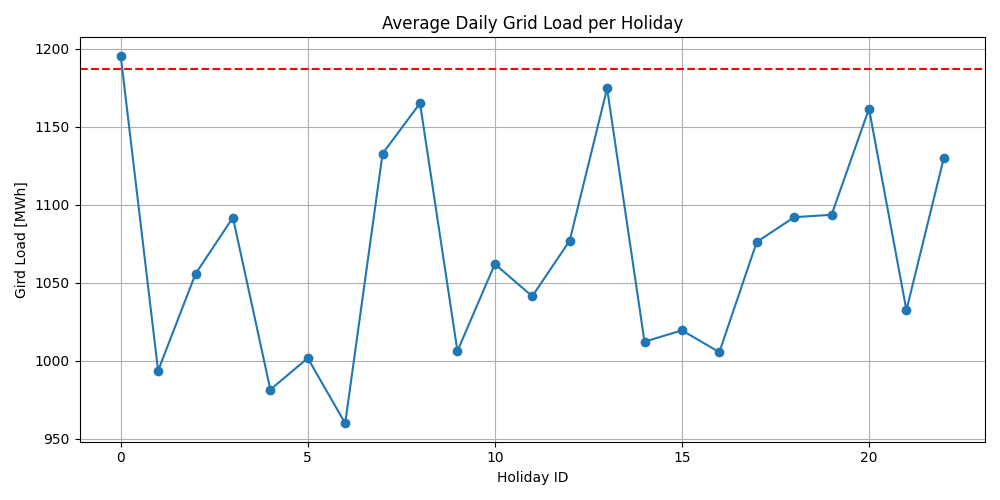
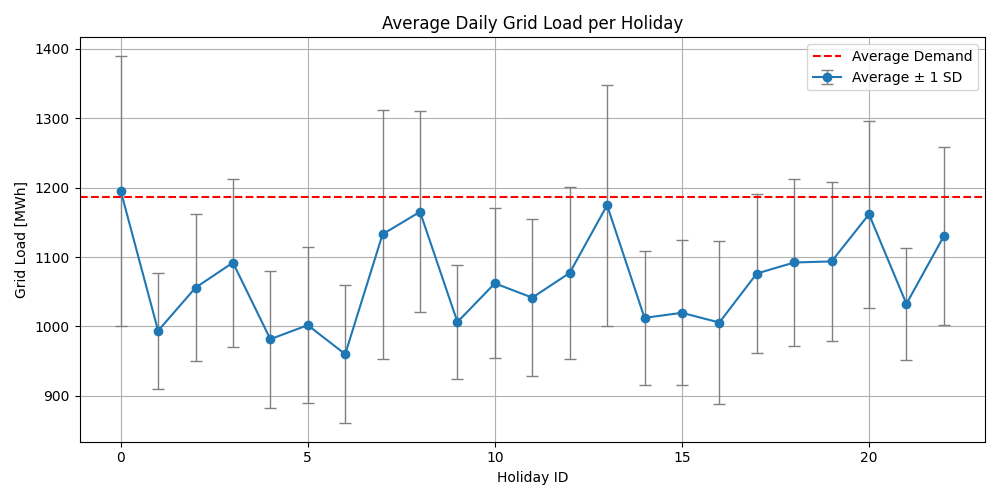
Added variation to the daily grid load

diff --git a/visualize_data.py b/visualize_data.py
@@ -131,18 +131,44 @@ def plot_grid_load_intra_day():
 
 def plot_holiday_IDs():
     avg_demand = df['nat_demand'].mean()
+
+    # Compute mean and standard deviation per Holiday_ID
+    grouped = df.groupby('Holiday_ID')['nat_demand']
+    avg_holiday = grouped.mean()
+    std_holiday = grouped.std()
+
     plt.figure(figsize=(10, 5))
-    avg_holiday = df.groupby('Holiday_ID')['nat_demand'].mean()
-    plt.plot(avg_holiday.index, avg_holiday.values, marker='o')
-    plt.axhline(y=avg_demand, color='red', linestyle='--', linewidth=1.5, label='y = average demand')  # ← added line
+    # Plot with error bars representing standard deviation
+    plt.errorbar(
+        avg_holiday.index,
+        avg_holiday.values,
+        yerr=std_holiday.values,
+        fmt='o-',
+        ecolor='gray',
+        elinewidth=1,
+        capsize=4,
+        label='Deviation ± 1 SD'
+    )
+
+    # Add average demand line
+    plt.axhline(
+        y=avg_demand,
+        color='red',
+        linestyle='--',
+        linewidth=1.5,
+        label='Average Demand'
+    )
+
     plt.title('Average Daily Grid Load per Holiday')
     plt.xlabel('Holiday ID')
-    plt.ylabel('Gird Load [MWh]')
+    plt.ylabel('Grid Load [MWh]')
+    plt.legend()
     plt.grid(True)
     plt.tight_layout()
     save_fig('holiday_grid_loads')
     plt.show()
 
-plot_grid_load()
+
+# plot_grid_load()
 # plot_grid_load_intra_day()
-# plot_holiday_IDs()
+plot_holiday_IDs()
